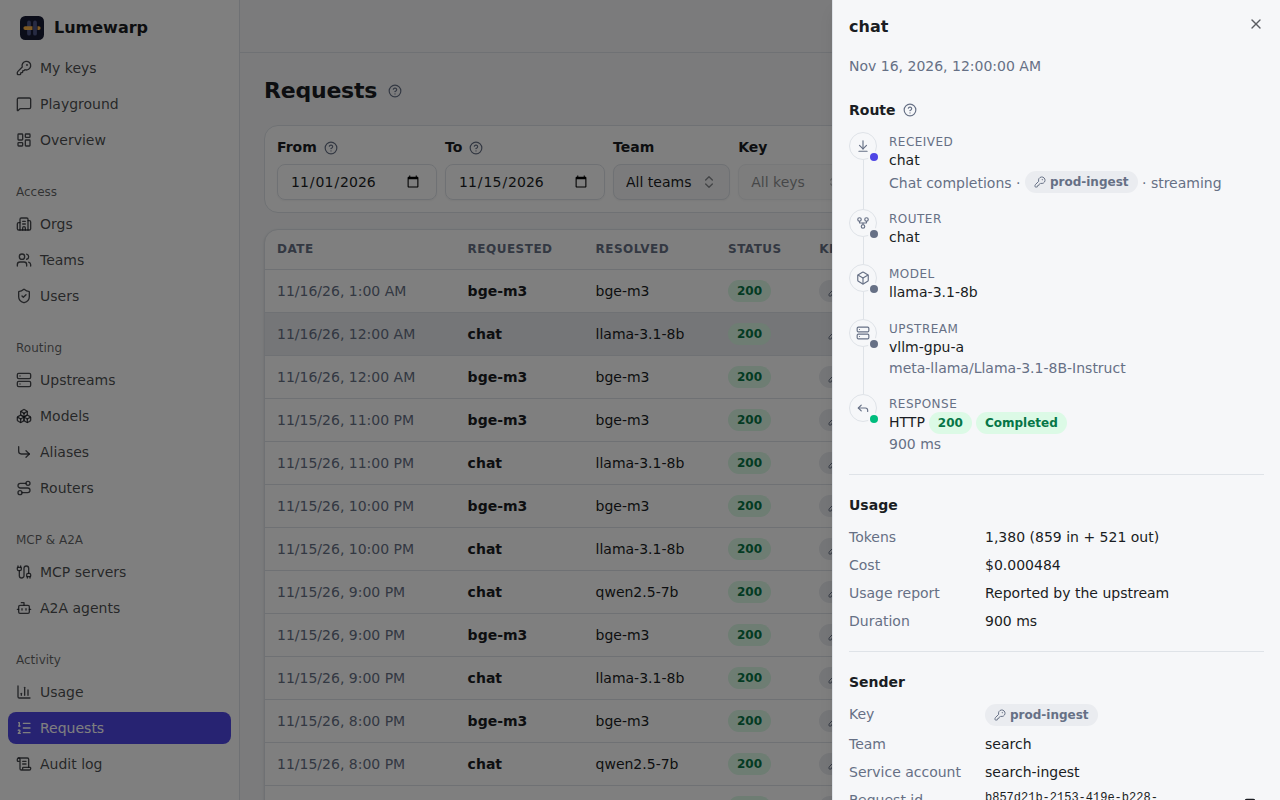
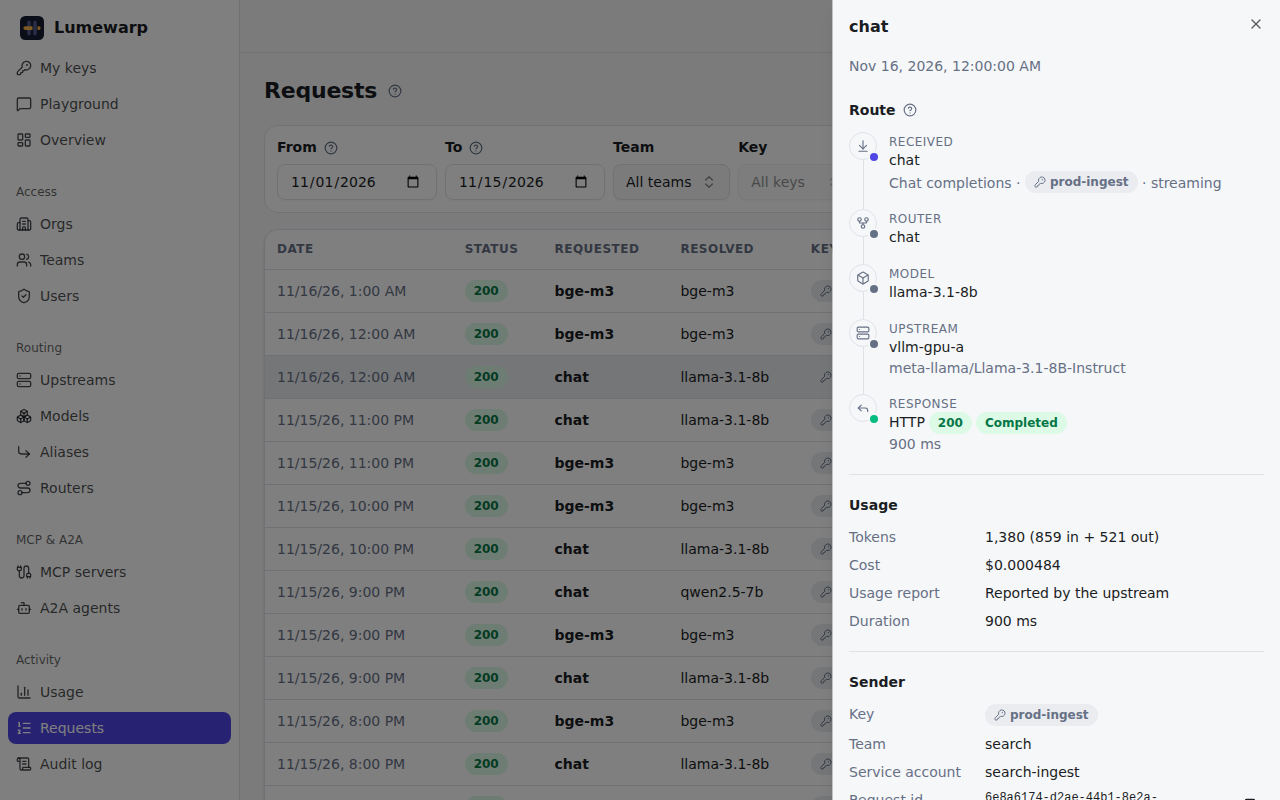
Put the status second in the request log
Claude-Session: https://claude.ai/code/session_01W9iuh4bNiqzxgJ3JHWGcEk

diff --git a/ui/src/pages/Requests.tsx b/ui/src/pages/Requests.tsx
@@ -275,6 +275,16 @@ export function Requests() {
             ),
           },
           {
+            key: "status",
+            header: "Status",
+            cell: (row) => (
+              <span className="flex flex-wrap items-center gap-1" data-testid="request-status">
+                <StatusBadge status={row.status} />
+                {row.outcome !== "completed" && <Badge tone={OUTCOME_TONE[row.outcome]}>{outcomeLabel(row.outcome)}</Badge>}
+              </span>
+            ),
+          },
+          {
             key: "requested",
             header: "Requested",
             cell: (row) => (
@@ -293,16 +303,6 @@ export function Requests() {
             ),
           },
           { key: "resolved", header: "Resolved", cell: (row) => <Resolved row={row} /> },
-          {
-            key: "status",
-            header: "Status",
-            cell: (row) => (
-              <span className="flex flex-wrap items-center gap-1" data-testid="request-status">
-                <StatusBadge status={row.status} />
-                {row.outcome !== "completed" && <Badge tone={OUTCOME_TONE[row.outcome]}>{outcomeLabel(row.outcome)}</Badge>}
-              </span>
-            ),
-          },
           {
             key: "key",
             header: "Key",

diff --git a/ui/e2e/requests.spec.ts b/ui/e2e/requests.spec.ts
@@ -33,9 +33,7 @@ test("lists requests newest first, renders the name chain, and defaults to LLM f
   expect(query.get("to")).toBeNull();
   await expect(page.getByRole("navigation", { name: "Main" }).getByRole("link", { name: "Requests", exact: true })).toBeVisible();
 
-  for (const header of ["Date", "Requested", "Resolved", "Status", "Key", "Tokens", "Cost"]) {
-    await expect(page.getByRole("columnheader", { name: header, exact: true })).toBeVisible();
-  }
+  await expect(page.getByRole("columnheader")).toHaveText(["Date", "Status", "Requested", "Resolved", "Key", "Tokens", "Cost"]);
 
   // Resolved shows the serving model and nothing on hover; the route it took is in the detail sheet.
   await expect(chain(page).filter({ hasText: "use/a" }).first()).toBeVisible();

diff --git a/docs/admin/requests.md b/docs/admin/requests.md
@@ -5,9 +5,9 @@ aggregates the same events; the audit log records administrative changes only.
 
 ![The Requests page](/screenshots/requests.png)
 
-The page shows one row per request: **Date**, **Requested** (the name the client called),
-**Resolved** (the model that served it), **Status** (the HTTP status, green for 2xx, amber
-for 4xx and red for 5xx, with the outcome when the request did not complete),
+The page shows one row per request: **Date**, **Status** (the HTTP status, green for 2xx,
+amber for 4xx and red for 5xx, with the outcome when the request did not complete),
+**Requested** (the name the client called), **Resolved** (the model that served it),
 **Key** (a pill with the key name; hover or focus it for the org, team, owner (or service
 account), `lw-` prefix and id),
 **Tokens** (total, with input + output in brackets) and **Cost**. The filter bar holds the
